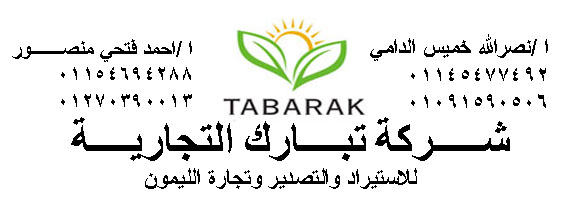
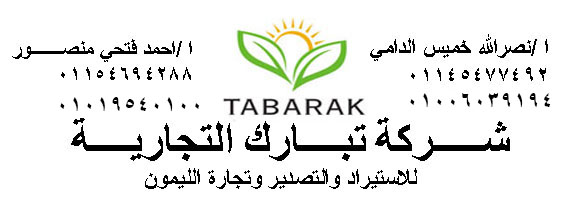
Change Byaa and Masahl  Rate and change mobile numbers

Changed region(s): [[0.7196, 0.4545, 0.9894, 0.5455], [0.0899, 0.4545, 0.3598, 0.5758]]

diff --git a/Order/DataServiceLayer/OrderOperationsDSL.cs b/Order/DataServiceLayer/OrderOperationsDSL.cs
@@ -281,8 +281,8 @@ namespace Order.DataServiceLayer
                     Quantity = item.Quantity,
                     Weight = item.Weight,
                     Price = item.SellingPrice,
-                    Byaa = 3 * item.Quantity,
-                    Mashal = 3 * item.Quantity,
+                    Byaa = AppSettings.ByaaRate * item.Quantity,
+                    Mashal = AppSettings.MashalRate * item.Quantity,
                     OrderDate = orderHeader.OrderHeader.Created,
                     FarmerId = orderHeader.OrderHeader.FarmerId
                 });

diff --git a/Shared/Classes/AppSettings.cs b/Shared/Classes/AppSettings.cs
@@ -8,9 +8,9 @@ namespace Shared.Classes
     {
 
         public const decimal CommissionRate = 0.09M;
-        public const decimal GiftRate = 0.5M;
-        public const decimal Decentate = 1M;
-        public const decimal ByaaRate = 3M;
-        public const decimal MashalRate = 3M;
+        public const decimal GiftRate = 1M;
+        public const decimal Decentate = 1.5M;
+        public const decimal ByaaRate = 4M;
+        public const decimal MashalRate = 4M;
     }
 }
